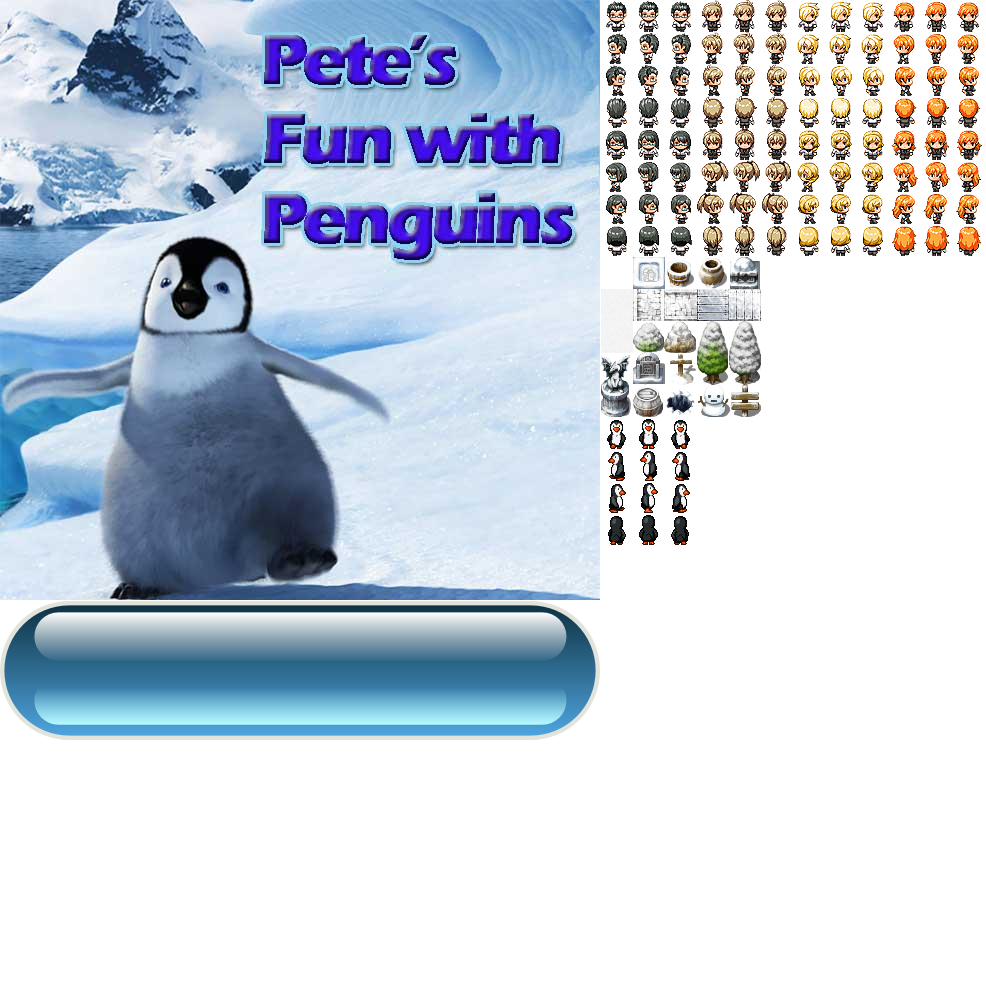
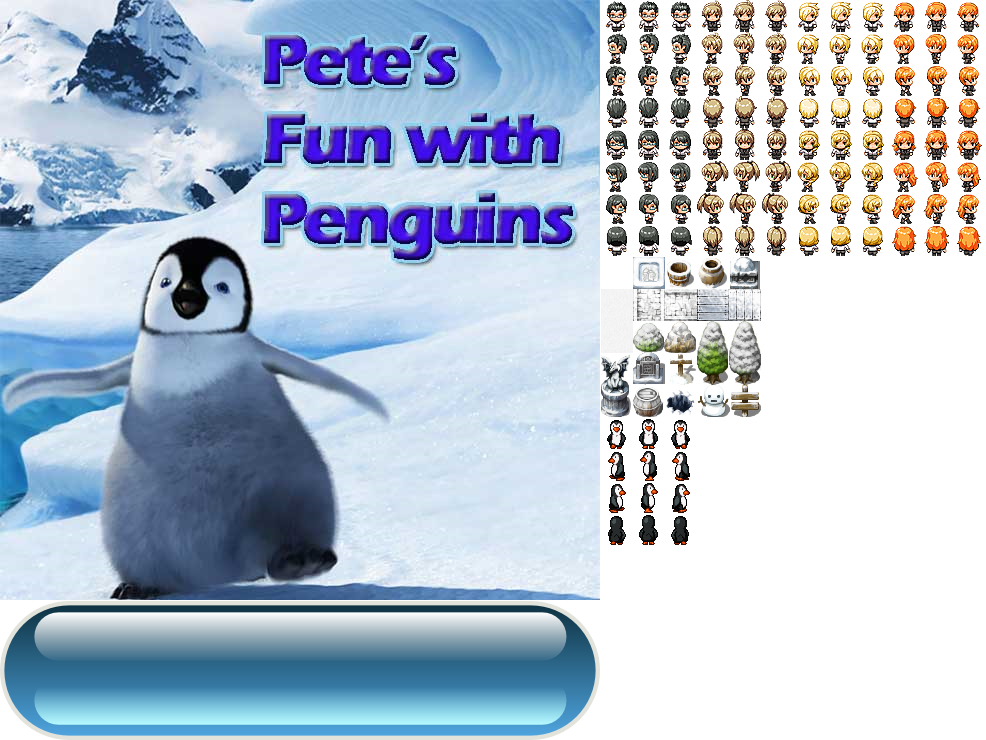
fixed aspect ration mistake

diff --git a/sokoban/GamePlay.cpp b/sokoban/GamePlay.cpp
@@ -326,12 +326,12 @@ void GamePlay::setupTexture()
 	float width = static_cast<float>(TextureManager::texture.getSize().x);
 	float height = static_cast<float>(TextureManager::texture.getSize().y);
 	m_background.append({ { 0,0 },{ 0,0 } });
-	m_background.append({ { 0,width },{ 0,width } });
-	m_background.append({ { height,width },{ height,width } });
+	m_background.append({ { width,0 },{ width,0 } });
+	m_background.append({ { width,height },{ width,height } });
 
 	m_background.append({ { 0,0 },{ 0,0 } });
-	m_background.append({ { height,width },{ height,width } });
-	m_background.append({ { height,0 },{ height,0 } });
+	m_background.append({ { width,height },{ width,height } });
+	m_background.append({ { 0,height },{ 0,height } });
 
 	loadBaseFile();
 	setupBaseVertexes(sf::Vector2f{ left,top });

diff --git a/sokoban/Game.cpp b/sokoban/Game.cpp
@@ -26,12 +26,12 @@ Game::Game(sf::Font & font) :
 	drawFrameCount = 0;
 	secondTime = sf::Time::Zero;
 	updateFps.setFont(m_font);
-	updateFps.setPosition(20, 530);
-	updateFps.setCharacterSize(24);
+	updateFps.setPosition(120, 560);
+	updateFps.setCharacterSize(12);
 	updateFps.setColor(sf::Color::White);
 	drawFps.setFont(m_font);
 	drawFps.setPosition(20, 560);
-	drawFps.setCharacterSize(24);
+	drawFps.setCharacterSize(12);
 	drawFps.setColor(sf::Color::White);
 #endif // TEST_FPS
 }
